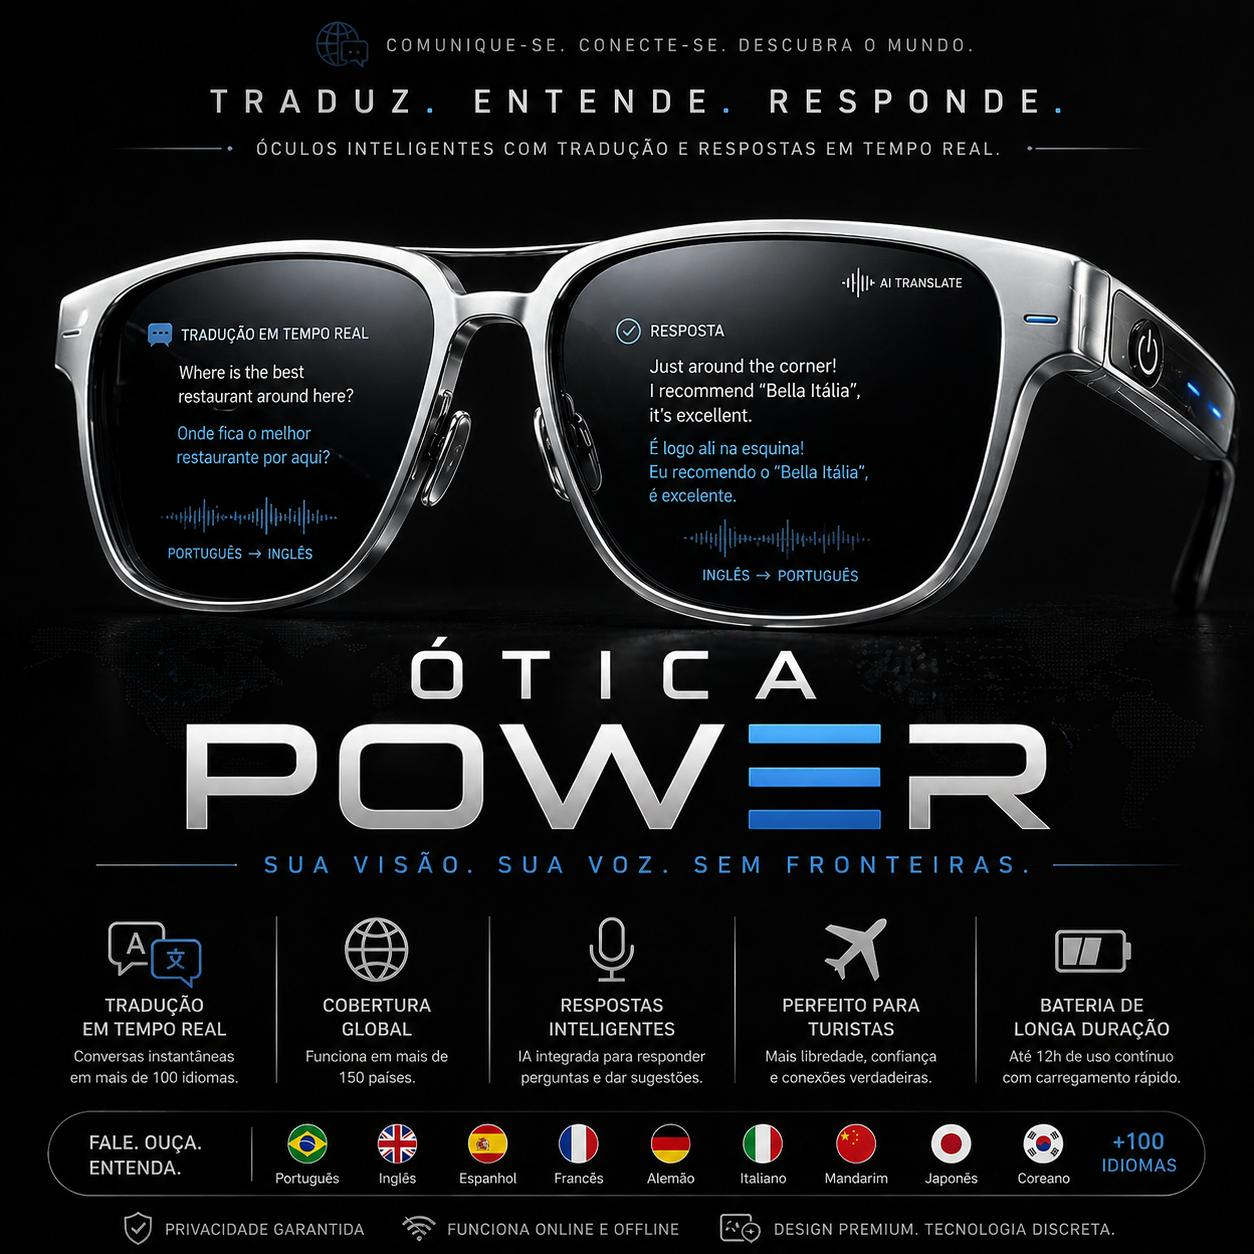
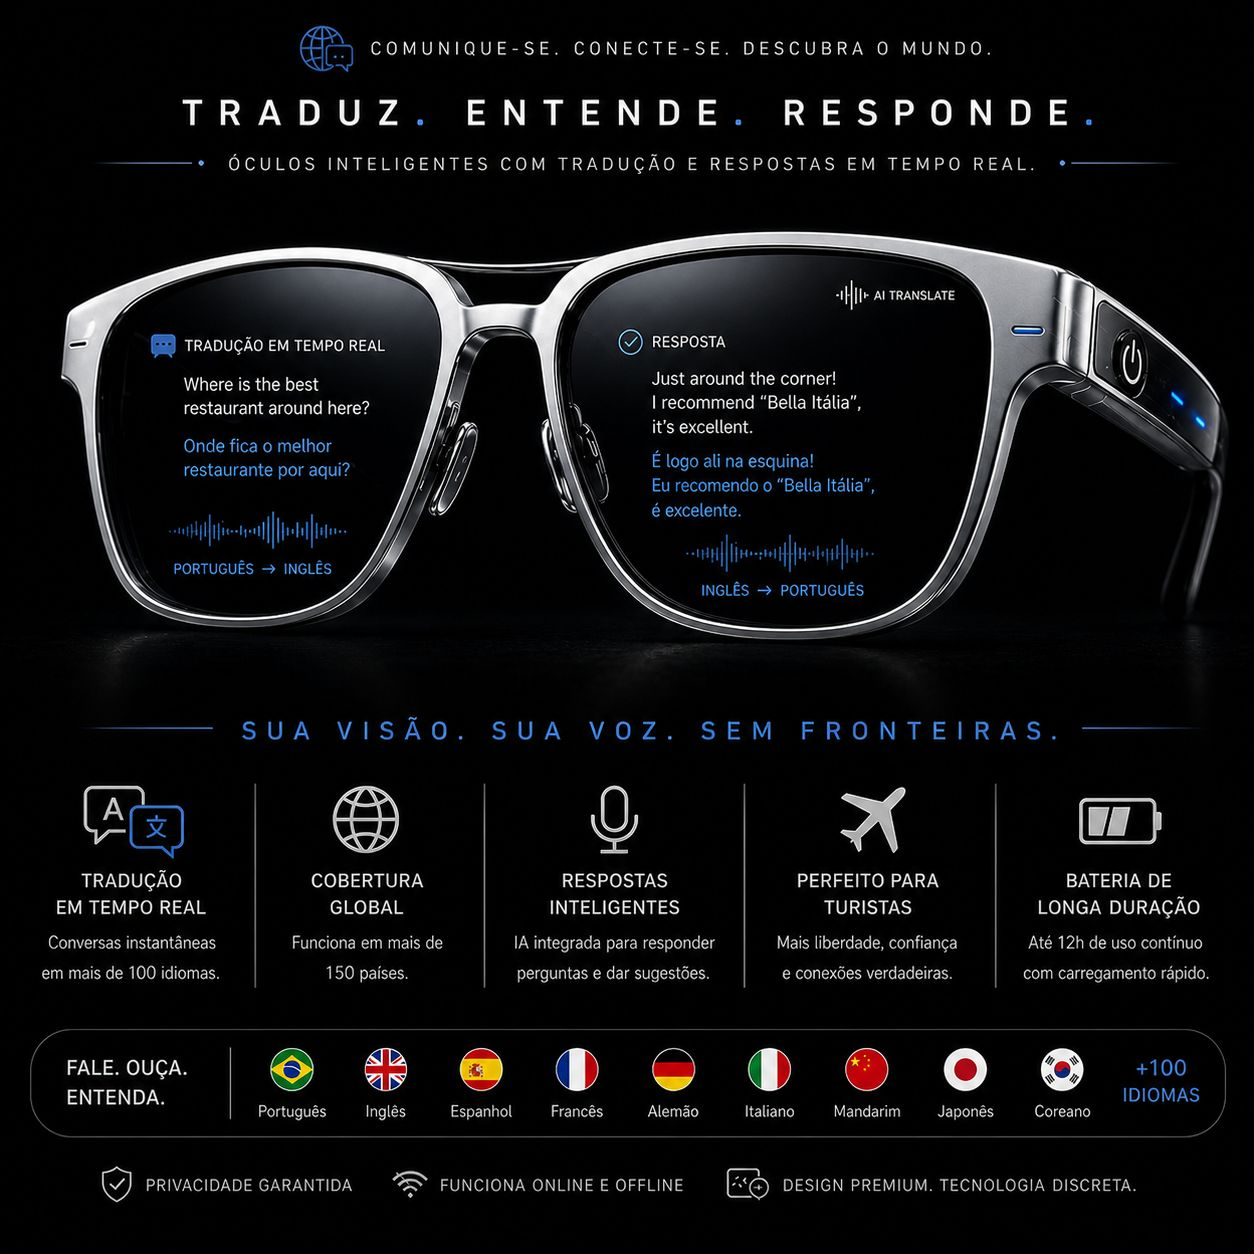
capa em andamento

Changed region(s): [[0.0311, 0.0, 0.9952, 0.9952]]

diff --git a/style.css b/style.css
@@ -14,3 +14,18 @@ nav a:hover{
     color: aliceblue;
     font-size: 20px;
 }
+
+.card{ /* foto dos oculos */
+    width: 100px;
+    margin: 20px;
+    padding: 60px;
+    border-radius: 10px;
+}
+
+.card img{
+    justify-content: flex-start;
+    width: 550px;
+    height: 550px;
+    border-radius: 10px;
+    object-fit: cover;
+}

diff --git a/index.html b/index.html
@@ -4,7 +4,7 @@
     <meta charset="UTF-8">
     <meta name="viewport" content="width=device-width, initial-scale=1.0">
     <title> Tecno glasses </title>
-    
+    <link rel="stylesheet" href="./style.css">
 </head>
 
 <body>
@@ -19,8 +19,12 @@
         <h1> oculos tecnologicos <br> da nova geração </h1>
         
         <section>
-            <article> <!-- fotos dos oculos -->
-                <img src="./imagens slide/oculos tradutor.html" alt="">
+            <article class="card"> <!-- fotos dos oculos -->
+                <img src="./imagens slide/oculos cego.jpeg" alt="">
+                <img src="./imagens slide/oculos de transito.jpeg" alt="">
+                <img src="./imagens slide/oculos do zoom.jpeg" alt="">
+                <img src="./imagens slide/oculos facial.jpeg" alt="">
+                <img src="./imagens slide/oculos tradutor.jpeg" alt=""> 
             </article>
            
         </section>